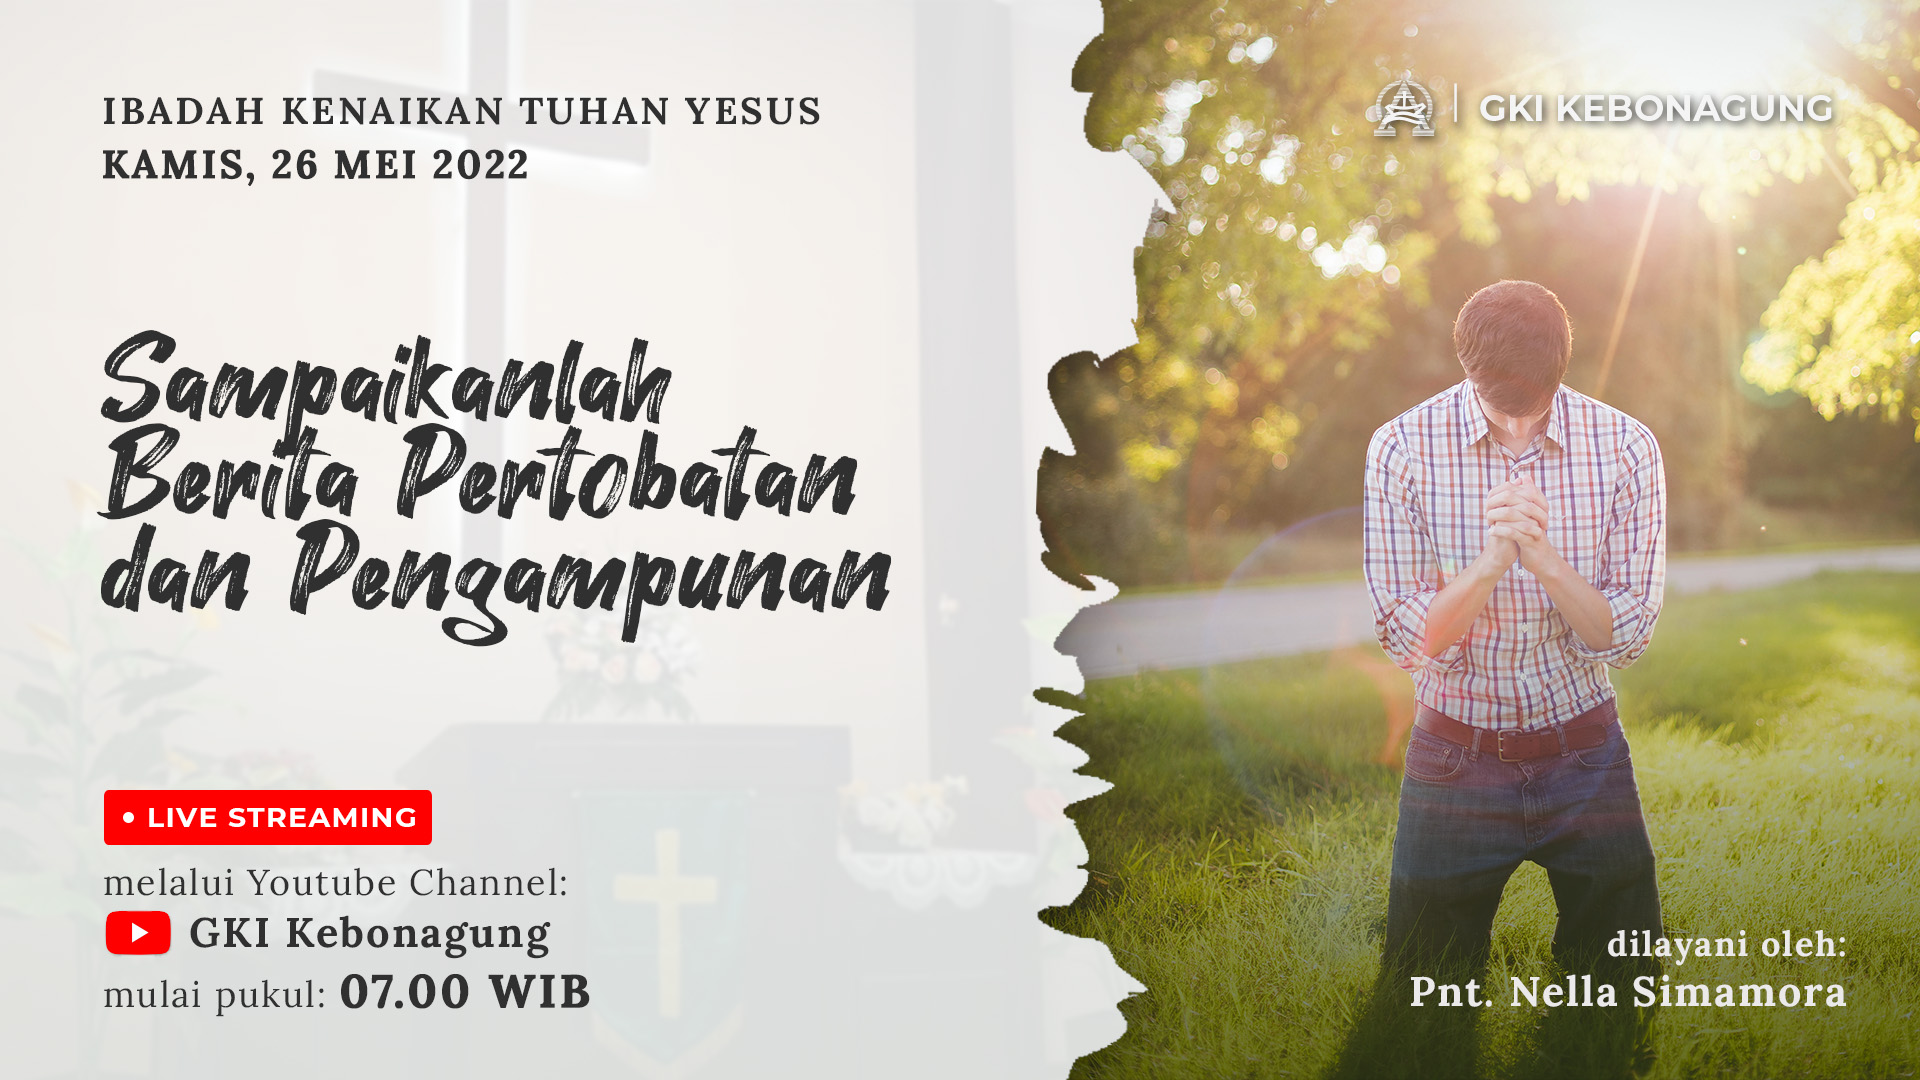
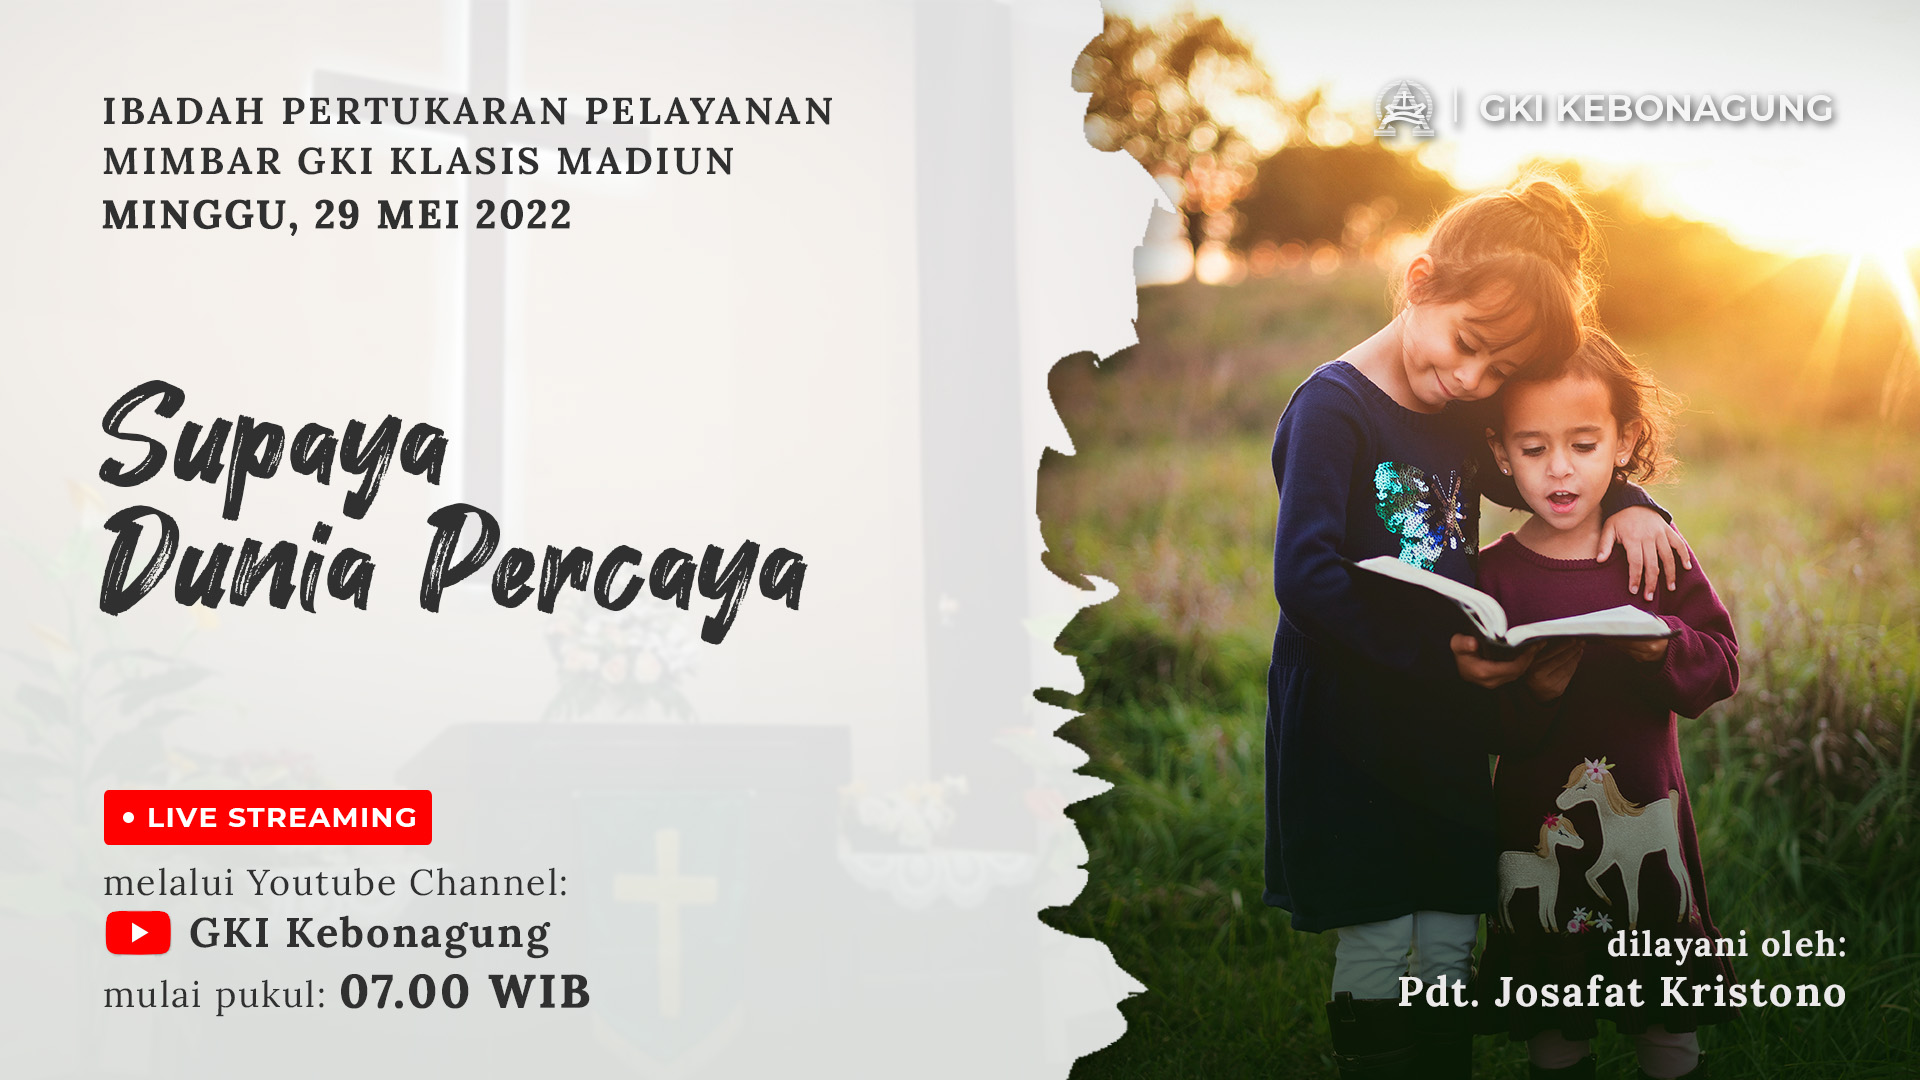
1

diff --git a/application/views/Front/vLandingpage.php b/application/views/Front/vLandingpage.php
@@ -114,18 +114,18 @@
                     <div class="mt-5">
                         <div class="card text-center shadow mx-3">
                             <!-- UBAH -->
-                            <a href="https://youtu.be/KY9FV9Mv4lw" target="_blank" class="text-decoration-none">
+                            <a href="https://youtu.be/MEHtwR-yYgg" target="_blank" class="text-decoration-none">
                                 <img src="<?= base_url() ?>front/assets/img/umum.jpg" class="card-img-top">
                             </a>
                             <div class="card-body">
-                                <h4 class="card-title">Ibadah Kenaikan Tuhan Yesus</h4>
+                                <h4 class="card-title">Ibadah Umum</h4>
                                 <!-- UBAH -->
-                                <p class="card-text">"Sampaikanlah Berita Pertobatan dan Pengampunan"<br>Kamis, 26 Mei 2022 - 07.00 WIB<br>Pnt. Nella Simamora</p>
+                                <p class="card-text">"Supaya Dunia Percaya"<br>KMinggu, 29 Mei 2022 - 07.00 WIB<br>Pdt. Josafat Kristono (GKI Diponegoro)</p>
                             </div>
                             <div class="card-body">
                                 <!-- UBAH -->
                                 <a href="<?= base_url() ?>Fronts/pilihOnsite" class="btn btn-primary mb-2 px-5 mx-1" style="border-radius: 10rem; font-size: 11pt">Onsite</a>
-                                <a href="https://youtu.be/KY9FV9Mv4lw" target="_blank" class="btn btn-primary mb-2 px-5 mx-1" style="border-radius: 10rem; font-size: 11pt">Online</a>
+                                <a href="https://youtu.be/MEHtwR-yYgg" target="_blank" class="btn btn-primary mb-2 px-5 mx-1" style="border-radius: 10rem; font-size: 11pt">Online</a>
                             </div>
                         </div>
                     </div>
